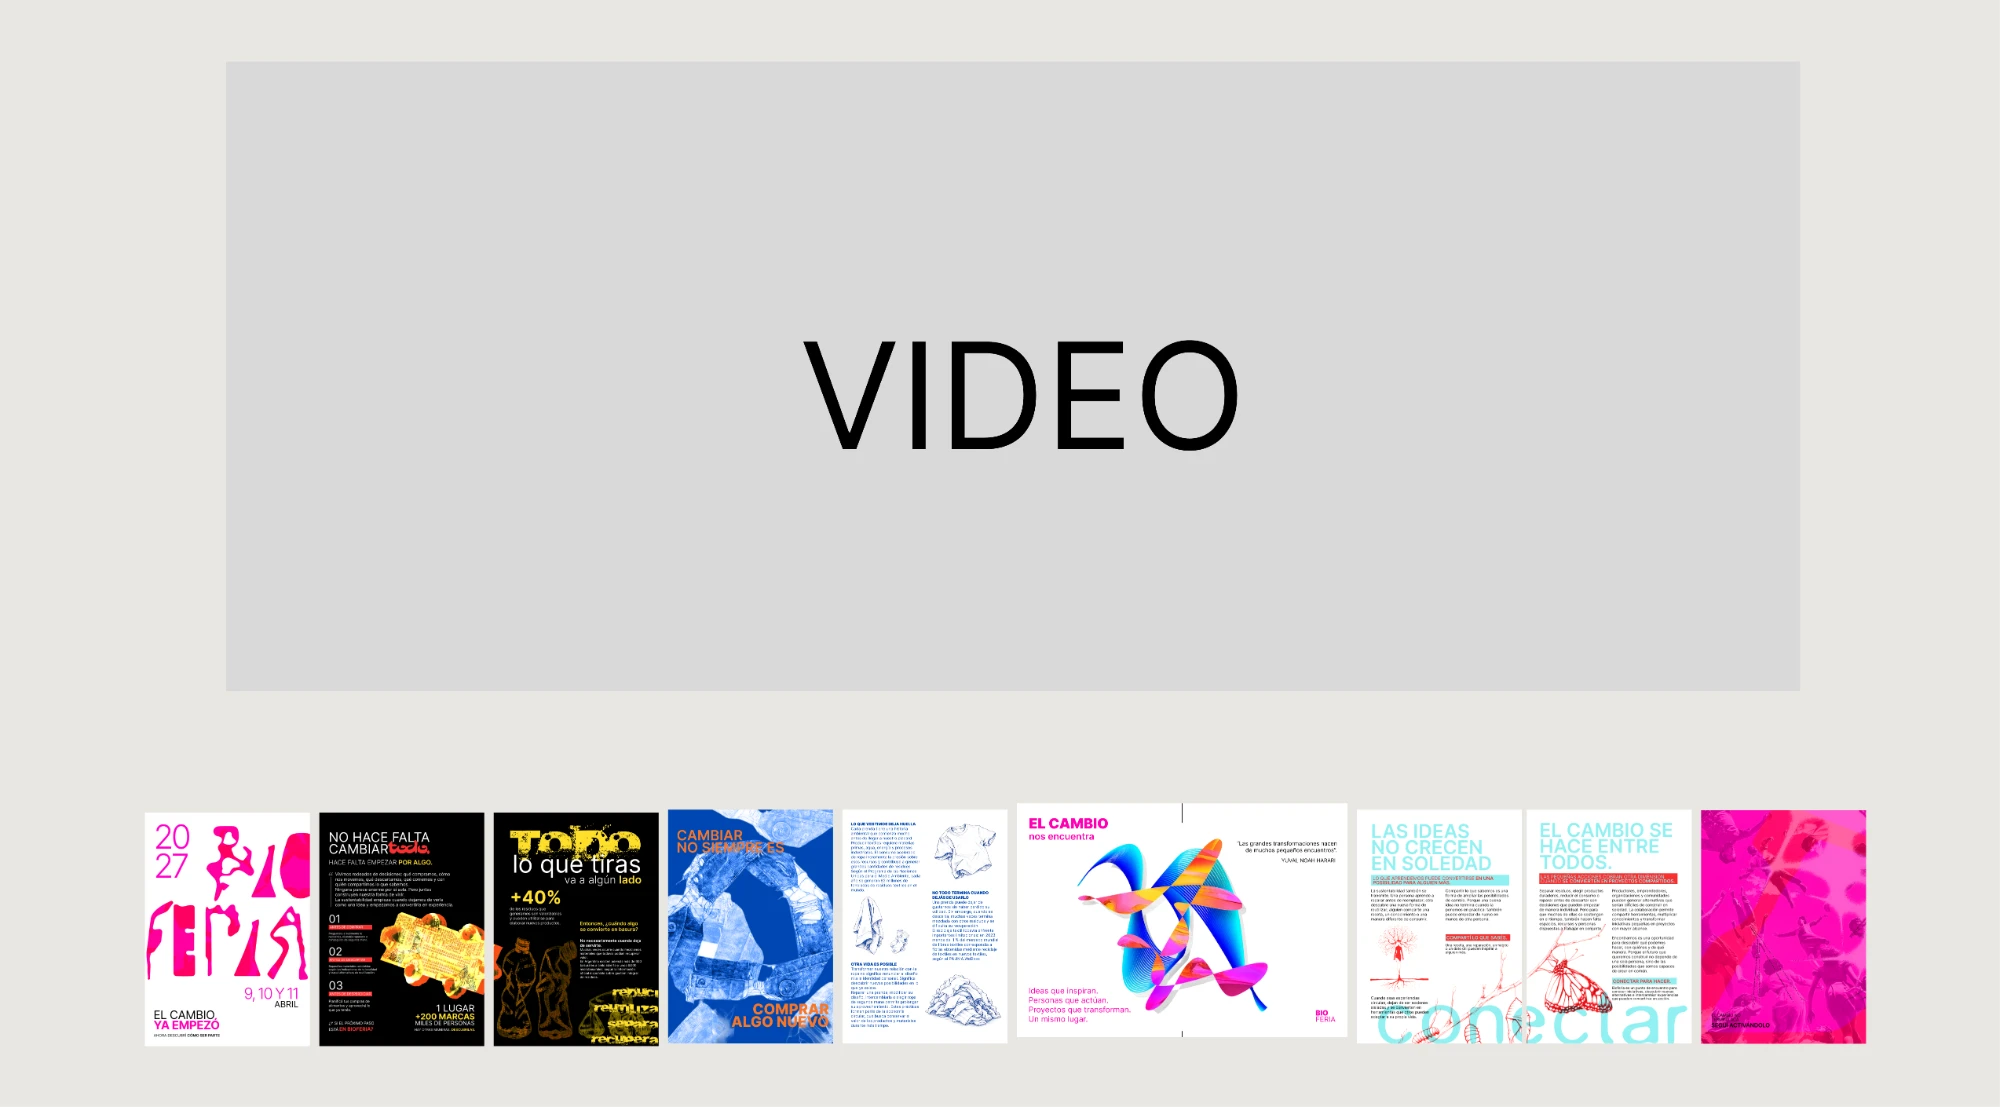
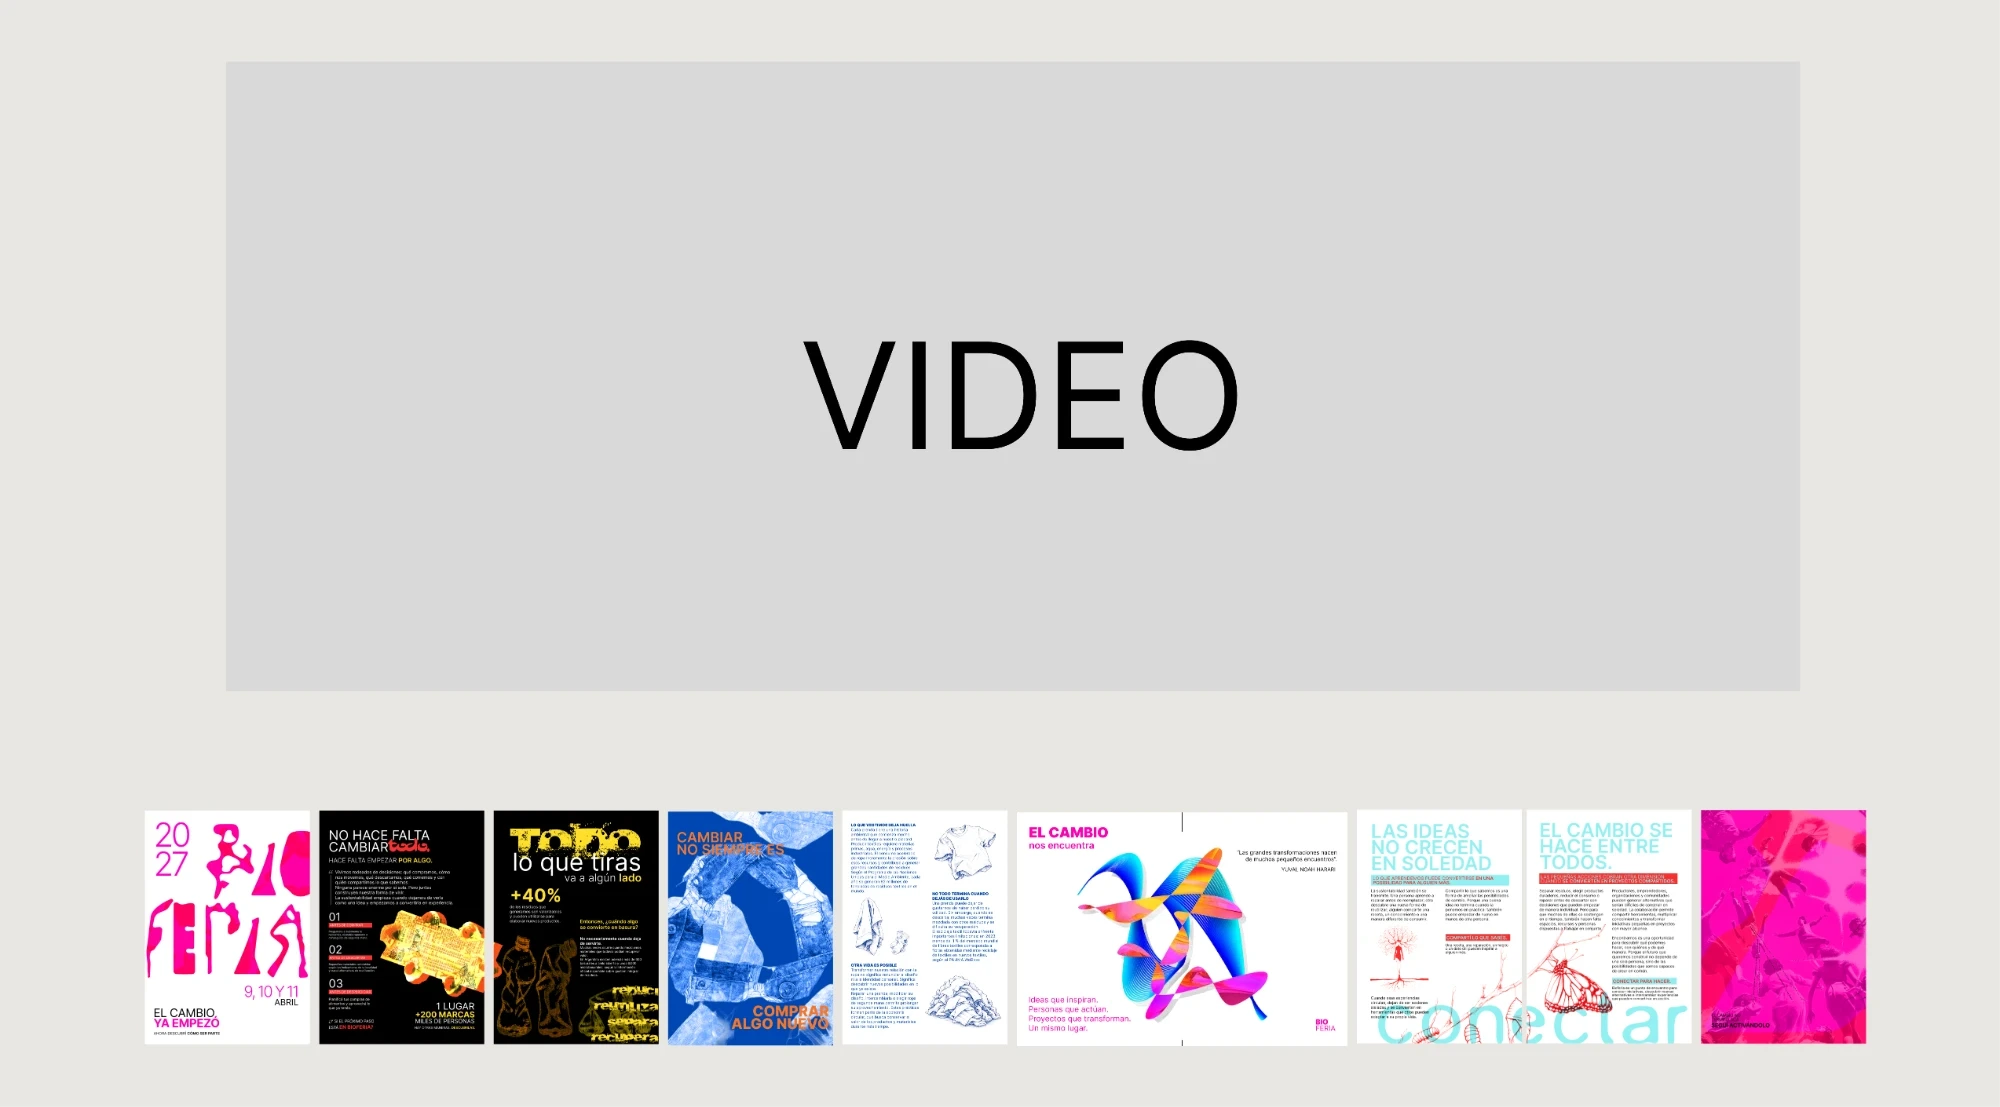
Final: nuevas jerarquías tipográficas, sin Gracias y pasa directo al video; nombre largo del celular sin cortes; revista con miniaturas alineadas

Changed region(s): [[0.062, 0.7064, 0.682, 0.9521]]

diff --git a/index.html b/index.html
@@ -783,7 +783,7 @@ fvEl.id='fvid';fvEl.style.cssText='position:fixed;inset:0;z-index:61;background:
 fvv.id='fvv';fvv.playsInline=true;fvv.setAttribute('playsinline','');fvv.preload='auto';fvv.style.cssText='position:absolute;inset:0;width:100%;height:100%;object-fit:contain;background:#000';
 fvSkip.className='pill ghost';fvSkip.textContent='Saltar →';fvSkip.style.cssText='position:absolute;right:26px;bottom:26px;z-index:2';const fvv2=document.createElement('video');fvv2.id='fvv2';fvv2.playsInline=true;fvv2.setAttribute('playsinline','');fvv2.muted=true;fvv2.preload='auto';fvv2.style.cssText='position:absolute;top:0;left:50%;width:50%;height:100%;object-fit:contain;object-position:left center;display:none';fvEl.append(fvv,fvv2,fvSkip);document.body.appendChild(fvEl);
 let fsDone=null,stdStage=0,fsIsFinal=false,fsFade=false;
-function playFinalVideo(){playFS('media/bioferia-final.mp4',null)}
+function playFinalVideo(){if(finalVid)return;playFS('media/bioferia-final.mp4',null)}
 let fsT0=0;function playFS(src,done,o){o=o||{};fsT0=performance.now();fsDone=done;fsIsFinal=src.indexOf('bioferia-final')>=0||!!o.duck;fsFade=!!o.fade;fvEl.style.background=o.bg||'#000';fvv.style.background=o.bg||'#000';fvv2.style.background=o.bg||'#000';if(o.src2){/* dos videos, uno al lado del otro, en la misma pantalla completa */fvv.style.cssText='position:absolute;top:0;left:0;width:50%;height:100%;object-fit:contain;object-position:right center;background:'+(o.bg||'#000')+';'+'-webkit-mask-image:linear-gradient(to right,transparent 0,#000 7%);mask-image:linear-gradient(to right,transparent 0,#000 7%);';fvv2.style.cssText='position:absolute;top:0;left:50%;width:50%;height:100%;object-fit:contain;object-position:left center;display:block;background:'+(o.bg||'#000')+';'+'-webkit-mask-image:linear-gradient(to right,transparent 0,#000 7%);mask-image:linear-gradient(to right,transparent 0,#000 7%);';fvv2.src=o.src2;fvv2.muted=true;fvv2.pause()}else{fvv.style.cssText='position:absolute;inset:0;width:100%;height:100%;object-fit:contain;background:'+(o.bg||'#000');fvv2.style.display='none';fvv2.removeAttribute('src')}finalVid=true;fOff=false;if(window.__cierreStop)window.__cierreStop();document.querySelectorAll('audio,video').forEach(m=>{if(m!==fvv&&m!==fvv2&&!m.paused)m.pause()});if(fsIsFinal&&window.__bgm)window.__bgm.pause();fvv.classList.remove('crt1','crt2');fvv.style.display='block';fvEl.style.display='block';requestAnimationFrame(()=>requestAnimationFrame(()=>{fvEl.style.opacity=1}));if(fvv.getAttribute('src')!==src)fvv.src=src;fsWatch();try{fvv.currentTime=0}catch(e){}fvv.muted=false;fvv.volume=1;if(o.src2){/* los dos videos arrancan juntos, cuando los dos están listos */fvv.muted=true;fvv.pause();const t0=performance.now();(function w(){if(!finalVid)return;if(fvv.readyState>=3&&fvv2.readyState>=3){try{fvv.currentTime=0;fvv2.currentTime=0}catch(e){}fvv.play().catch(()=>{});fvv2.play().catch(()=>{})}else if(performance.now()-t0>7000){fvv.play().catch(()=>{});fvv2.play().catch(()=>{})}else setTimeout(w,80)})()}else fvv.play().catch(()=>{fvv.muted=true;fvv.play().catch(finalOff)})}
 /* red de seguridad del video a pantalla completa: si no arranca (carga lenta o el navegador bloquea la reproducción) se reintenta sin sonido y, si sigue trabado, se cierra y vuelve; un toque sobre el video lo reanuda */
 function fsWatch(){const t0=performance.now();let tries=0;const iv=setInterval(()=>{if(!finalVid||fOff){clearInterval(iv);return}if(fvv.currentTime>.2&&!fvv.paused){clearInterval(iv);return}const el=(performance.now()-t0)/1000;if(el>4&&tries===0){tries=1;fvv.muted=true;fvv.play().catch(()=>{})}if(el>10){clearInterval(iv);finalOff()}},500)}
@@ -1342,7 +1342,7 @@ station({id:'app',az:D(262),R:27,y:-.8,title:'Aplicación',text:'La feria en tu 
     [[-.46,1.29],[-.14,1.29],[-.3,1.0]].forEach(([lx,ly])=>{const o=lx+.0;disc(o-.0,ly,.13,'#5a5a66',.012);disc(o,ly,.108,'#0a0a10',.016);disc(o,ly,.07,'#14142a',.02);disc(o-.03,ly+.03,.018,'#8fa0ff',.024)});
     disc(.22,1.3,.04,'#e8e2c8',.012);disc(.22,1.12,.03,'#0a0a10',.012);
     disc(0,.15,.1,'#31313a',.006);
-    const cap=panel(2.6,.68,(x,w,h)=>{x.fillStyle=a.c;x.fillRect(w*.3,h*.08,w*.4,h*.05);x.textAlign='center';x.fillStyle=INK();x.font=`400 ${h*.25}px Inter`;x.fillText(a.t.split('').join(String.fromCharCode(8202)),w/2,h*.58);x.fillStyle=INK(.5);x.font=`300 ${h*.18}px Inter`;x.fillText('TOCÁ PARA VER QUÉ HACE',w/2,h*.9)},{px:700,eo:0,dw:false,th:true});
+    const cap=panel(2.6,.68,(x,w,h)=>{x.fillStyle=a.c;x.fillRect(w*.3,h*.08,w*.4,h*.05);x.textAlign='center';x.fillStyle=INK();const tt=a.t.split('').join(String.fromCharCode(8202));let fs=h*.25;x.font=`400 ${fs}px Inter`;const mw=x.measureText(tt).width;if(mw>w*.92)fs*=w*.92/mw;/* el nombre largo se achica para que no se corte */x.font=`400 ${fs}px Inter`;x.fillText(tt,w/2,h*.58);x.fillStyle=INK(.5);x.font=`300 ${h*.18}px Inter`;x.fillText('TOCÁ PARA VER QUÉ HACE',w/2,h*.9)},{px:700,eo:0,dw:false,th:true});
     cap.children[0].material.side=THREE.FrontSide;cap.position.set(0,-2.1,.05);ph.add(cap);
     ph.position.x=X[i];ph.userData={bx:X[i],ry:(1-i)*.14,i};g.add(ph);appPh.push(ph)});
   let was=false,t0=0,lt=0;
@@ -1575,17 +1575,16 @@ window.stfGo=()=>{};
 
 /* 13 Cierre: el texto final se escribe a máquina (Inter), palabra por palabra, y termina con "butbe" escrito como una firma.
    Queda arriba del centro del universo para no ocupar un lugar del anillo. Tocar la pantalla salta al siguiente bloque. */
-const CIERRE=[
-  {lines:['Todo empieza con algo.','','Una idea que enciende.','Unas manos que cuidan.','Una decisión que transforma.'],heads:{0:{size:92,weight:600}}}/* heads: estilo propio de una línea (título del bloque) */,
-  {lines:['Pero algo distinto sucede','cuando nos encontramos.','','Cuando lo que empieza en uno','se convierte en algo de todos.']},
-  {lines:['Porque HACER nos mueve.','CUIDAR nos sostiene.','TRANSFORMAR nos permite imaginar.','CONECTAR nos hace más fuertes.','Y CELEBRAR nos recuerda que estamos juntos.']},
-  {lines:['No sabemos cuánto puede cambiar','el mundo con una sola acción.','','Pero sabemos algo:']},
-  {lines:['Nadie cambia solo.'],size:100,weight:600},
-  {lines:['Activemos el cambio.'],size:84,weight:500,sign:'butbe',agency:'Estudio de diseño',hold:9},
-  {lines:['Gracias.'],size:120,weight:300,final:true}
+const CIERRE=[/* jerarquías: texto liviano (300), énfasis en negrita (**así**) o negrita cursiva (*así*); lh = interlineado; misma tipografía (Inter) */
+  {lines:['Todo empieza con algo','','Una idea que *enciende*','Unas manos que *cuidan*','Una decisión que *transforma*'],size:44,lh:1.12,heads:{0:{size:52,weight:700}}},
+  {lines:['Pero algo distinto sucede','cuando *nos encontramos*','','Cuando lo que empieza en uno','se convierte en *algo de todos*'],size:44,lh:1.1},
+  {lines:['Porque hacer nos mueve','Cuidar nos sostiene','Transformar nos permite imaginar','Conectar nos hace más fuertes','Celebrar nos recuerda que estamos juntos'],size:50,lh:1.12,keys:true},
+  {lines:['No sabemos cuánto puede *cambiar*','el mundo con una sola acción','','Pero sabemos algo:'],size:44,lh:1.1,heads:{3:{size:48,weight:700}}},
+  {lines:['Nadie cambia **solo**'],size:58,weight:300},
+  {lines:['Activemos **el cambio**'],size:84,weight:300,sign:'butbe',agency:'Estudio de diseño',hold:9}/* después de esta pantalla pasa directo al video */
 ];
 const CIERRE_AUDIO='assets/audio/cierre.mp3';/* poné el mp3 del cierre en esa ruta */
-const CIERRE_KEY={HACER:'#FA3710',CUIDAR:'#FED108',TRANSFORMAR:'#4d86ff',CONECTAR:'#01DAC7',CELEBRAR:'#FF0099'};
+const CIERRE_KEY={HACER:'#FF3B30',CUIDAR:'#FFDD2D',TRANSFORMAR:'#0B4FC8',CONECTAR:'#8FEFF0',CELEBRAR:'#FF00AA'};
 station({id:'cierre',az:0,R:0,y:26,title:'Cierre',text:'Gracias por recorrer el universo Bioferia.',cam:{r:9.5,ph:.05}},g=>{
   /* lienzo del texto */
   const W=1600,H=900,cv2=document.createElement('canvas');cv2.width=W;cv2.height=H;const x=cv2.getContext('2d');
@@ -1601,17 +1600,17 @@ station({id:'cierre',az:0,R:0,y:26,title:'Cierre',text:'Gracias por recorrer el 
   const delay=(ch,li,ci)=>.05+((ci*37+li*11)%7)*.007+(ch==='.'?.5:ch===','?.28:ch===':'?.65:0);
   /* cada bloque entra en fade, línea por línea (escalonado corto), se lee un rato proporcional a su largo y sale en fade */
   const STAG=.16,FIN=.55;CIERRE.forEach(b=>{if(b.hold==null){const n=b.lines.join('').length;b.hold=Math.min(5.2,Math.max(2.6,2+n*.028))}});
-  const blocks=CIERRE.map(b=>{const times=[],lineT=[];let t=0;b.lines.forEach((ln,li)=>{if(!ln){times.push([]);lineT.push(0);t+=.08;return}lineT.push(t);times.push([...ln].map(()=>t));t+=STAG});return{b,times,lineT,typeDur:Math.max(0,t-STAG)+FIN}});
+  const blocks=CIERRE.map(b=>{const times=[],lineT=[];let t=0;b.lines.forEach((ln,li)=>{if(!ln){times.push([]);lineT.push(0);t+=.08;return}lineT.push(t);times.push([...ln.replace(/\*/g,'')].map(()=>t));t+=STAG});return{b,times,lineT,typeDur:Math.max(0,t-STAG)+FIN}});
   const HOLD=2.2,FADE=.5,GAP=.12;let acc=0;blocks.forEach(k=>{k.start=acc;k.typeEnd=acc+k.typeDur;k.end=k.typeEnd+(k.b.hold||HOLD)+FADE+GAP;acc=k.end});
-  const segs=ln=>ln.split(/(HACER|CUIDAR|TRANSFORMAR|CONECTAR|CELEBRAR)/).filter(s=>s!=='').map(s=>({t:s,c:CIERRE_KEY[s]||null}));
+  const segs=(ln,keys)=>{const out=[];ln.split(/(\*\*[^*]+\*\*|\*[^*]+\*)/).filter(p=>p!=='').forEach(p=>{if(p.startsWith('**'))out.push({t:p.slice(2,-2),w:700});else if(p[0]==='*')out.push({t:p.slice(1,-1),w:700,it:true});else if(keys)p.split(/(hacer|cuidar|transformar|conectar|celebrar)/i).filter(q=>q!=='').forEach(q=>{const c=CIERRE_KEY[q.toUpperCase()];out.push(c?{t:q,w:700,c}:{t:q})});else out.push({t:p})});return out};
   const draw=(ti,t)=>{x.clearRect(0,0,W,H);
     let bi=blocks.findIndex(k=>ti<k.end);if(bi<0)bi=blocks.length-1;const k=blocks[bi],b=k.b,size=b.size||58,wt=b.weight||300,lt=ti-k.start;
     const fade=b.final?1:Math.min(1,Math.max(0,1-(ti-(k.typeEnd+(b.hold||HOLD)))/FADE));if(fade<=0)return;
     x.globalAlpha=fade;x.textBaseline='middle';
-    const lh=size*1.55,bl=size*.8,heights=b.lines.map((l,li)=>l?(((b.heads||{})[li]||{}).size||size)*1.55:bl),total=heights.reduce((a,c)=>a+c,0),y0=b.sign?H*.235:(H-total)/2;let y=y0,cursor=null;
-    b.lines.forEach((ln,li)=>{const hh=heights[li],hd=(b.heads||{})[li]||{},sz=hd.size||size,wl=hd.weight||wt;if(ln){const la=Math.min(1,Math.max(0,(lt-k.lineT[li])/FIN)),le=1-Math.pow(1-la,3);x.globalAlpha=fade*le;const n=k.times[li].filter(v=>v<=lt).length,S=segs(ln);let full=0;S.forEach(s=>{x.font=(s.c?700:wl)+' '+sz+'px Inter,sans-serif';full+=x.measureText(s.t).width});
+    const lh=size*(b.lh||1.55),bl=size*.8,heights=b.lines.map((l,li)=>l?(((b.heads||{})[li]||{}).size||size)*(b.lh||1.55):bl),total=heights.reduce((a,c)=>a+c,0),y0=b.sign?H*.17:(H-total)/2;let y=y0,cursor=null;
+    b.lines.forEach((ln,li)=>{const hh=heights[li],hd=(b.heads||{})[li]||{},sz=hd.size||size,wl=hd.weight||wt;if(ln){const la=Math.min(1,Math.max(0,(lt-k.lineT[li])/FIN)),le=1-Math.pow(1-la,3);x.globalAlpha=fade*le;const n=k.times[li].filter(v=>v<=lt).length,S=segs(ln,b.keys);let full=0;S.forEach(s=>{x.font=(s.it?'italic ':'')+(s.w||wl)+' '+sz+'px Inter,sans-serif';full+=x.measureText(s.t).width});
         const startX=(W-full)/2;let px=startX,left=n,curX=startX;
-        S.forEach(s=>{x.font=(s.c?700:wl)+' '+sz+'px Inter,sans-serif';const ch=[...s.t],take=Math.min(left,ch.length),part=ch.slice(0,take).join('');
+        S.forEach(s=>{x.font=(s.it?'italic ':'')+(s.w||wl)+' '+sz+'px Inter,sans-serif';const ch=[...s.t],take=Math.min(left,ch.length),part=ch.slice(0,take).join('');
           if(part){x.fillStyle=s.c||(LIGHT?'#1b1b1f':'#f2f2ee');x.fillText(part,px,y+hh/2+(1-le)*14);curX=px+x.measureText(part).width}left-=take;px+=x.measureText(s.t).width});
         if(n>0)cursor={x:curX+3,y:y+hh/2,h:sz*.95}}
       y+=hh});
@@ -1621,13 +1620,13 @@ station({id:'cierre',az:0,R:0,y:26,title:'Cierre',text:'Gracias por recorrer el 
     if(b.sign&&lt>k.typeDur+.5){const p=Math.min(1,(lt-k.typeDur-.5)/3.2),e=p<.5?2*p*p:1-Math.pow(-2*p+2,2)/2;
       tx2.clearRect(0,0,SW,SH);tx2.globalCompositeOperation='source-over';tx2.drawImage(sg,0,0);tx2.globalCompositeOperation='destination-in';
       const ex=-40+(SW+120)*e,/* recorre toda la palabra, hasta pasar la última letra */gr=tx2.createLinearGradient(ex-70,0,ex+10,0);gr.addColorStop(0,'rgba(0,0,0,1)');gr.addColorStop(1,'rgba(0,0,0,0)');tx2.fillStyle=gr;tx2.fillRect(0,0,SW,SH);tx2.globalCompositeOperation='source-over';
-      const sw=900,sh=sw*SH/SW,sx0=(W-sw)/2,sy0=H*.29;x.drawImage(tmp,sx0,sy0,sw,sh);
-      if(b.agency){const q=Math.min(1,Math.max(0,(lt-k.typeDur-4)/1));if(q>0){x.globalAlpha=fade*q;x.fillStyle=LIGHT?'rgba(22,22,26,.85)':'rgba(242,242,238,.85)';x.font='400 36px Inter,sans-serif';x.textBaseline='middle';let aw=0;[...b.agency].forEach(ch=>aw+=x.measureText(ch).width+7);aw-=7;spaced(x,b.agency,(W-aw)/2,sy0+sh*.86,7);x.globalAlpha=fade}}
+      const sw=740,sh=sw*SH/SW,sx0=(W-sw)/2,sy0=H*.27;x.drawImage(tmp,sx0,sy0,sw,sh);
+      if(b.agency){const q=Math.min(1,Math.max(0,(lt-k.typeDur-4)/1));if(q>0){x.globalAlpha=fade*q;x.fillStyle=LIGHT?'rgba(22,22,26,.85)':'rgba(242,242,238,.85)';x.font='400 26px Inter,sans-serif';x.textBaseline='middle';let aw=0;[...b.agency].forEach(ch=>aw+=x.measureText(ch).width+5);aw-=5;spaced(x,b.agency,(W-aw)/2,sy0+sh*.86,5);x.globalAlpha=fade}}
       if(p<1){const gx=sx0+(ex/SW)*sw,gy=sy0+sh*.62,rg=x.createRadialGradient(gx,gy,0,gx,gy,34);rg.addColorStop(0,'rgba(255,110,110,.95)');rg.addColorStop(1,'rgba(255,45,61,0)');x.fillStyle=rg;x.fillRect(gx-34,gy-34,68,68)}}
     x.globalAlpha=1};
   /* arranque, repetición y salto con un toque */
-  let state='idle',t0=0,offAt=0,off=0,skip=false,lastKey='',aud=null;window.__cierreStop=()=>{if(aud)aud.pause()};const AUD_END=80,AUD_FADE=4;/* el audio suena desde que empieza el manifiesto hasta 1:20, con fade al final */
-  const reset=()=>{x.clearRect(0,0,W,H);tex.needsUpdate=true;lastKey='';off=0;skip=false};
+  let state='idle',t0=0,offAt=0,off=0,skip=false,lastKey='',aud=null,vidAuto=false;window.__cierreStop=()=>{if(aud)aud.pause()};const AUD_END=80,AUD_FADE=4;/* el audio suena desde que empieza el manifiesto hasta 1:20, con fade al final */
+  const reset=()=>{x.clearRect(0,0,W,H);tex.needsUpdate=true;lastKey='';off=0;skip=false;vidAuto=false};
   cv.addEventListener('pointerup',e=>{if(state==='run'&&cur>=0&&ST[cur].id==='cierre'&&dnC&&Math.hypot(e.clientX-dnC.x,e.clientY-dnC.y)<6)skip=true});let dnC=null;cv.addEventListener('pointerdown',e=>{dnC={x:e.clientX,y:e.clientY}});
   ticks.push(t=>{document.body.classList.toggle('cierre',cur>=0&&ST[cur].id==='cierre');/* en el cierre se ve solo el texto: sin título ni contador */
     const on=cur>=0&&ST[cur].id==='cierre'&&(state!=='idle'||camera.position.distanceTo(g.position)<15);
@@ -1635,7 +1634,7 @@ station({id:'cierre',az:0,R:0,y:26,title:'Cierre',text:'Gracias por recorrer el 
     if(!on&&state!=='idle'){if(!offAt)offAt=t;if(t-offAt>2){state='idle';offAt=0;reset();if(aud)aud.pause()}}else if(on)offAt=0;
     if(state==='idle')return;
     if(aud&&!aud.paused){const c=aud.currentTime;if(c>=AUD_END)aud.pause();else aud.volume=Math.max(0,Math.min(1,c/1.2,(AUD_END-c)/AUD_FADE))}
-    let ti=t-t0+off;window.__blocks=blocks;if(window.__ct!=null)ti=window.__ct;/* atajo de prueba: window.__ct fija el instante del cierre */
+    let ti=t-t0+off;if(!vidAuto&&state==='run'&&ti>=blocks[blocks.length-1].end){vidAuto=true;playFinalVideo()}window.__blocks=blocks;if(window.__ct!=null)ti=window.__ct;/* atajo de prueba: window.__ct fija el instante del cierre */
     if(skip){skip=false;const bi=blocks.findIndex(k=>ti<k.end);if(bi>=0&&!blocks[bi].b.final){const k=blocks[bi];off+=ti<k.typeEnd?(k.typeEnd-ti):(k.end-ti);ti=t-t0+off}}
     const bi=Math.max(0,blocks.findIndex(k=>ti<k.end)),k=blocks[bi<0?blocks.length-1:bi],lt=ti-k.start;window.__cierreAtEnd=!!k.b.final;
     const key=bi+'|'+(lt<k.typeDur+.05?Math.round(lt*30):'x')+'|'+Math.round(Math.min(1,Math.max(0,1-(ti-(k.typeEnd+(k.b.hold||HOLD)))/FADE))*30)+'|'+(Math.floor(t*2)%2)+'|'+(k.b.sign?Math.round((lt-k.typeDur-.5)*30):0);
